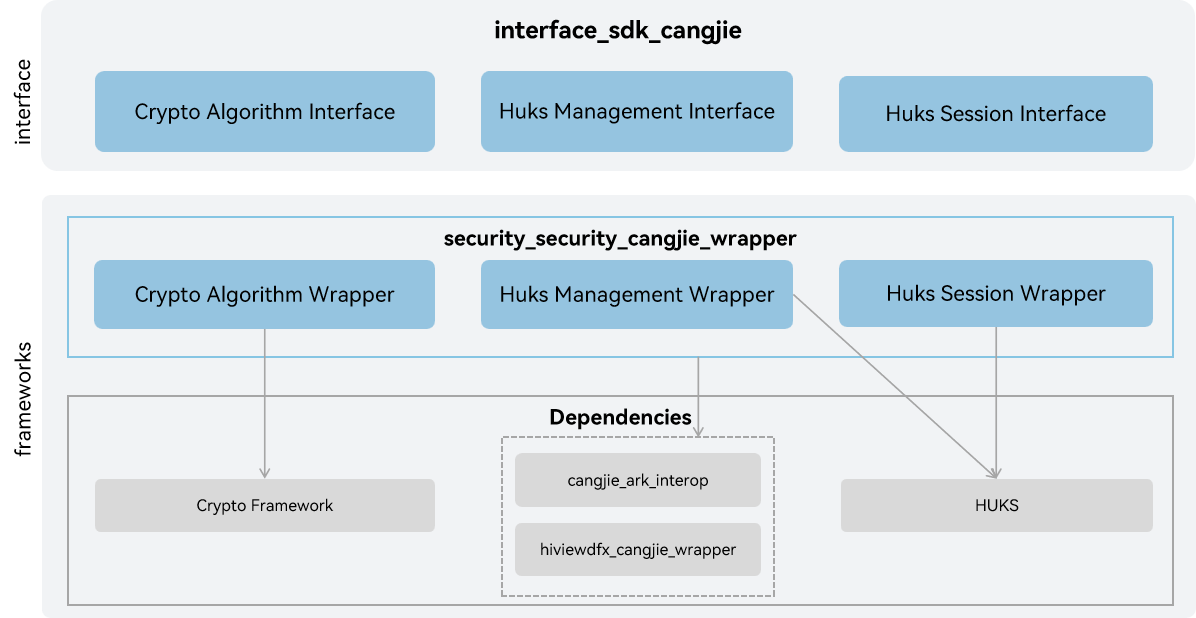
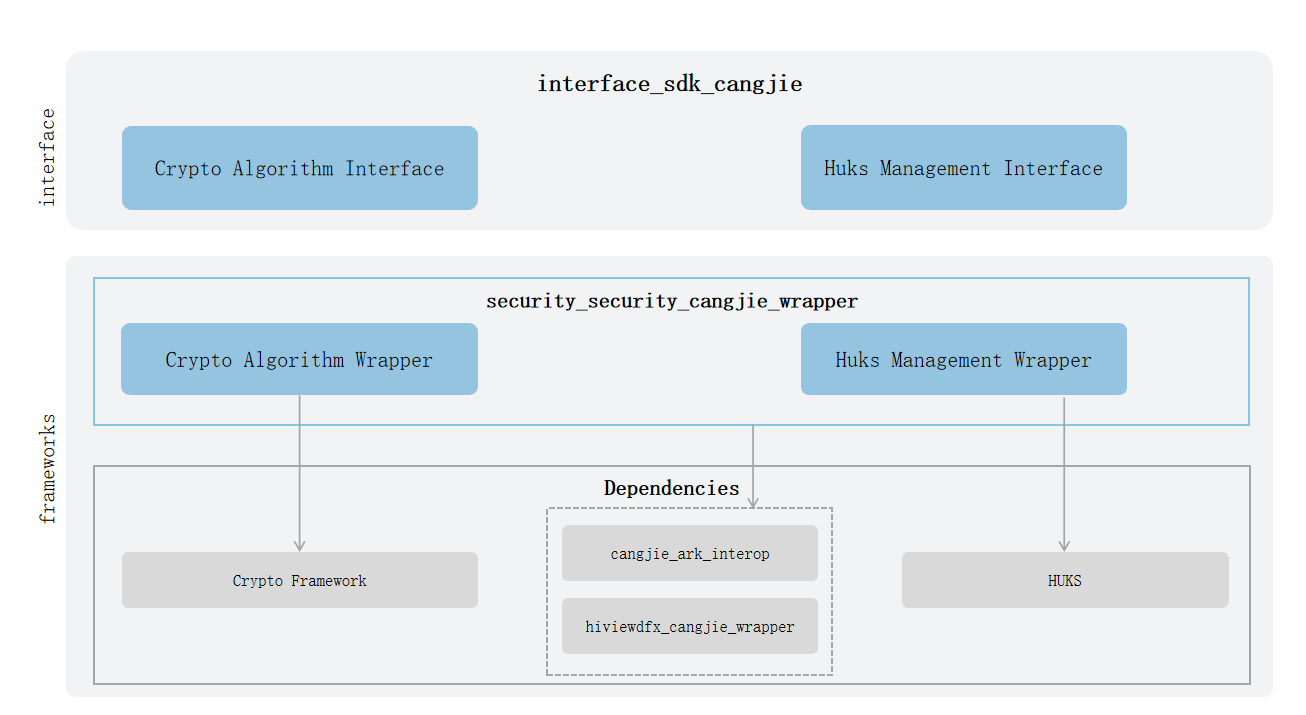
fix readme

diff --git a/README_zh.md b/README_zh.md
@@ -2,11 +2,7 @@
 
 ## 简介
 
-安全基础能力仓颉封装包括系统安全、数据安全、应用安全等功能，为OpenHarmony提供有效保护应用和用户数据的能力。
-
-安全基础能力仓颉当前支持的功能，包括加解密算法基础功能、密钥管理功能、密钥会话功能。
-
-当前开放的安全基础能力仓颉接口仅支持standard设备。
+安全基础能力仓颉封装包括系统安全、数据安全、应用安全等功能，为OpenHarmony提供有效保护应用和用户数据的能力。当前支持的功能包括加解密算法基础功能、密钥管理功能且仅支持standard设备。
 
 ## 系统架构
 
@@ -14,20 +10,15 @@
 
 ![安全基础能力仓颉架构图](figures/security_cangjie_wrapper_architecture.png "安全基础能力仓颉架构图")
 
-如架构图所示：
-
 接口层：
 
 - 加解密算法基础功能：加解密算法基础功能主要是为了屏蔽底层硬件和算法库，向上提供统一的密码算法库加解密相关接口。它的主要功能提供密码操作、秘钥材料和生成器、密码加解密、签名验签、安全随机数等相关功能。开发者可以通过使用该功能，忽略底层不同三方算法库的差异，实现迅捷开发。
 - 密钥管理功能：密钥管理功能主要是为了向上层应用提供一套完整、统一、安全的密钥生命周期管理接口，屏蔽不同硬件安全模块和底层密钥管理服务的实现差异。它的主要功能包括：密钥生成与派生、密钥存储、密钥导入、销毁等一系列关键操作。开发者通过调用该功能，可以忽略底层不同密钥存储介质的复杂细节和安全策略差异，确保密钥材料的机密性、完整性和可用性，从而实现安全、可靠、高效的业务开发。
-- 密钥会话功能：密钥会话功能是HUKS系统提供的核心安全能力之一，它构建在统一的密钥管理基础之上，其主要目的是为上层应用提供一套安全、高效的密钥协商与数据加密通信机制。Huks基于密钥会话功能来操作数据，它提供如下api接口供开发者使用，比如：初始化密钥会话initSession、数据过大需要分段操作密钥数据updateSession、结束此次密钥操作finishSession、取消会话abortSeesion。
 
 框架层：
 
 - 加解密算法基础功能封装：仓颉加解密算法基础功能的实现封装，提供加解密算法基础功能。
 - 密钥管理功能封装：仓颉密钥管理功能的实现封装，提供密钥管理功能。
-- 密钥会话功能封装：仓颉密钥会话功能的实现封装，提供密钥会话功能。
-- 仓颉安全基础能力FFI接口定义：定义C语言互操作仓颉接口，用于实现仓颉安全基础能力。
 
 架构图中的依赖部件引入说明：
 
@@ -48,7 +39,7 @@ base/security/security_cangjie_wrapper
 |   ├── crypto_framework            # 密码算法库加解密相关接口
 |   └── huks                        # 密钥相关接口
 |       ├── huks_key_item.cj        # 密钥管理相关接口
-|       └── huks_session.cj         # 秘钥会话
+|       └── huks_session.cj         # 密钥会话
 └── test                            # 仓颉测试代码
     ├── crypto                      # crypto测试用例
     └── security_huks               # security_huks测试用例
@@ -56,19 +47,18 @@ base/security/security_cangjie_wrapper
 
 ## 使用说明
 
-当前安全基础能力仓颉接口提供了以下功能：
+当前安全基础能力仓颉封装提供了以下功能：
 
 - 加解密算法基础功能
 - 密钥管理功能
-- 密钥会话功能
 
-安全基础能力相关API请参见[密钥库能力](https://gitcode.com/openharmony-sig/arkcompiler_cangjie_ark_interop/blob/master/doc/API_Reference/source_zh_cn/apis/UniversalKeystoreKit/cj-apis-security_huks.md)，[加解密算法库框架](https://gitcode.com/openharmony-sig/arkcompiler_cangjie_ark_interop/blob/master/doc/API_Reference/source_zh_cn/apis/CryptoArchitectureKit/cj-apis-crypto.md)，相关指导请参见[安全基础能力开发指南](https://gitcode.com/openharmony-sig/arkcompiler_cangjie_ark_interop/tree/master/doc/Dev_Guide/source_zh_cn/security)。
+安全基础能力相关API请参见[密钥管理能力](https://gitcode.com/openharmony-sig/arkcompiler_cangjie_ark_interop/blob/master/doc/API_Reference/source_zh_cn/apis/UniversalKeystoreKit/cj-apis-security_huks.md)，[加解密算法库框架](https://gitcode.com/openharmony-sig/arkcompiler_cangjie_ark_interop/blob/master/doc/API_Reference/source_zh_cn/apis/CryptoArchitectureKit/cj-apis-crypto.md)，相关指导请参见[加解密算法库开发指南](https://gitcode.com/openharmony-sig/arkcompiler_cangjie_ark_interop/blob/master/doc/Dev_Guide/source_zh_cn/security/CryptoArchitectureKit/cj-crypto-architecture-kit-intro.md)以及[密钥管理能力](https://gitcode.com/openharmony-sig/arkcompiler_cangjie_ark_interop/blob/master/doc/Dev_Guide/source_zh_cn/security/UniversalKeystoreKit/cj-huks-overview.md)。
 
 ## 约束
 
 与ArkTS提供的API能力相比：
 
-- 秘钥管理暂不支持以下功能：
+- 密钥管理暂不支持以下功能：
   - 程序访问控制功能
   - 用户认证
 
